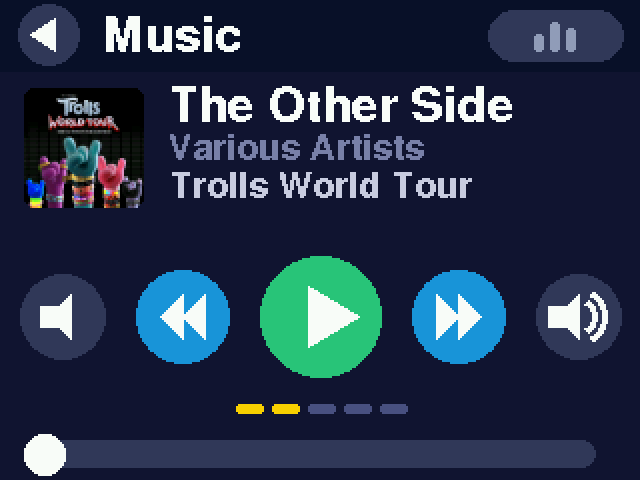
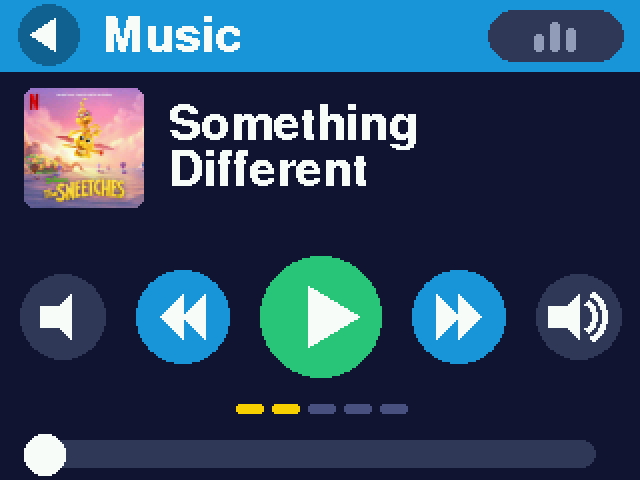
Player shows just the title; shelf-colored top bar on songs and player too

Changed region(s): [[0.0, 0.0, 1.0, 0.4375]]

diff --git a/README.md b/README.md
@@ -26,8 +26,8 @@ everything on it chosen by a grown-up.
 - **The top bar** has back on the left, the shelf's name, and on the right the
   now-playing button: its bars bounce on green while something plays; tap it for the
   player. Home doesn't have it (Keep listening does that job): leaving Home for a shelf,
-  Keep listening's green button flies up into the corner and becomes it. On
-  a shelf's albums the bar is in the shelf's color.
+  Keep listening's green button flies up into the corner and becomes it. Past
+  Home the bar is in the shelf's color.
 - **Snackbars** at the bottom say when the battery is low, it's charging, or headphones
   connect. When headphones disconnect, the sound pauses rather than carrying on out
   loud.

diff --git a/CHANGELOG.md b/CHANGELOG.md
@@ -16,8 +16,10 @@ e.g. `0.3.0+6.cb61af8`.
   the top bar's corner and becomes it.
 - Keep listening's round button has the same dancing bars as the now-playing button
   while something plays (a play triangle when paused).
-- The top bar on a shelf's albums is in the shelf's own color, as on Home (Music blue,
-  Pods purple, Books orange).
+- The top bar is in the shelf's own color, as on Home (Music blue, Pods purple, Books
+  orange), on its albums, songs and player.
+- The player shows just the title (a book's name for books), next to the cover: no
+  artist or album line.
 - Keep listening's title scrolls like a marquee when it's too long to fit.
 - The Home button does nothing on Home (it used to repaint the screen).
 
